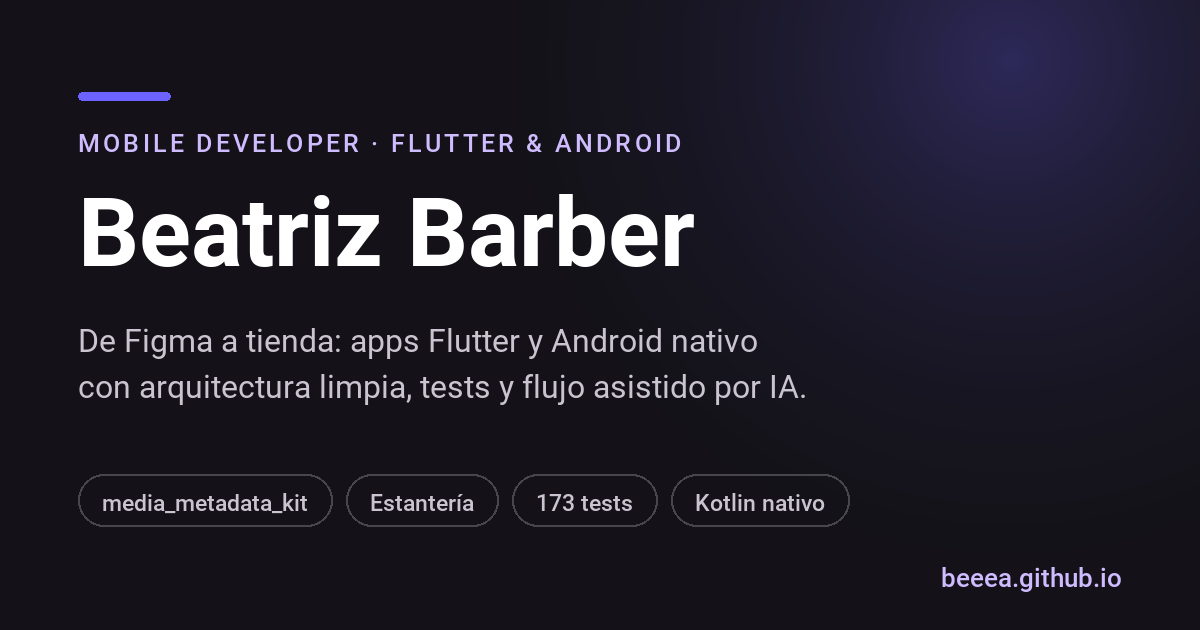
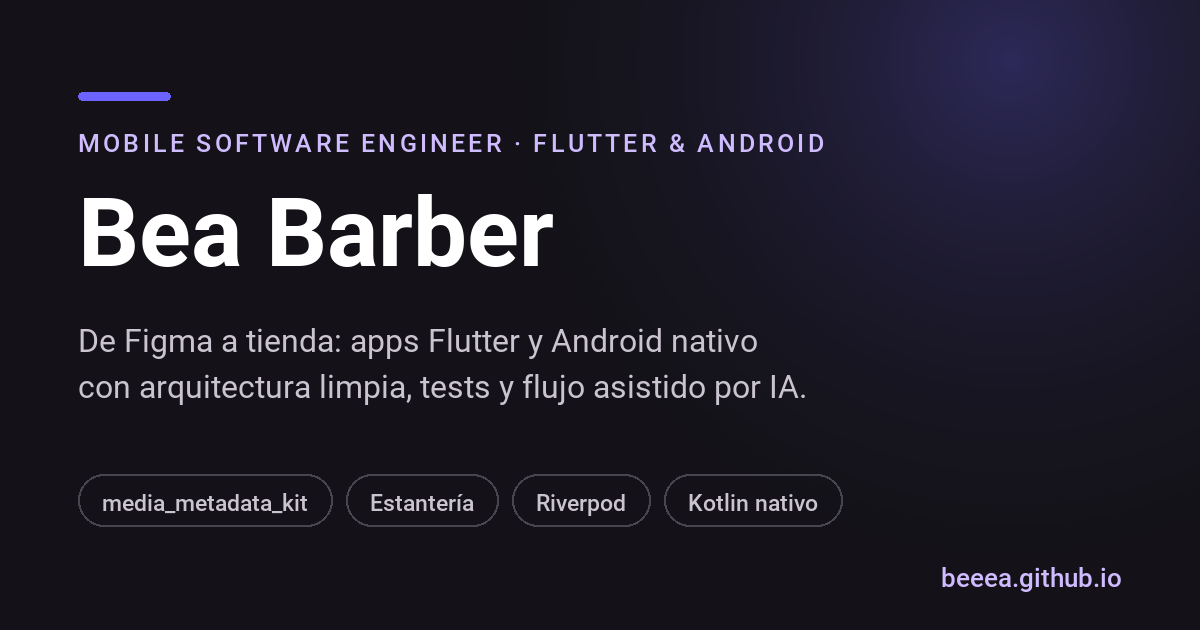
Actualiza la tarjeta OG con el nombre Bea y sin métricas internas

diff --git a/tool/generate_og_image.py b/tool/generate_og_image.py
@@ -25,13 +25,14 @@ CHIP_BORDER = (73, 69, 79)
 
 FONT_DIR = Path.home() / "Developer/flutter/bin/cache/artifacts/material_fonts"
 
-TITLE_LINE = "Beatriz Barber"
-LABEL = "MOBILE DEVELOPER · FLUTTER & ANDROID"
+TITLE_LINE = "Bea Barber"
+LABEL = "MOBILE SOFTWARE ENGINEER · FLUTTER & ANDROID"
 BODY_LINES = [
     "De Figma a tienda: apps Flutter y Android nativo",
     "con arquitectura limpia, tests y flujo asistido por IA.",
 ]
-CHIPS = ["media_metadata_kit", "Estantería", "173 tests", "Kotlin nativo"]
+# Sin métricas internas: la tarjeta se comparte públicamente con recruiters.
+CHIPS = ["media_metadata_kit", "Estantería", "Riverpod", "Kotlin nativo"]
 FOOTER = "beeea.github.io"
 
 
